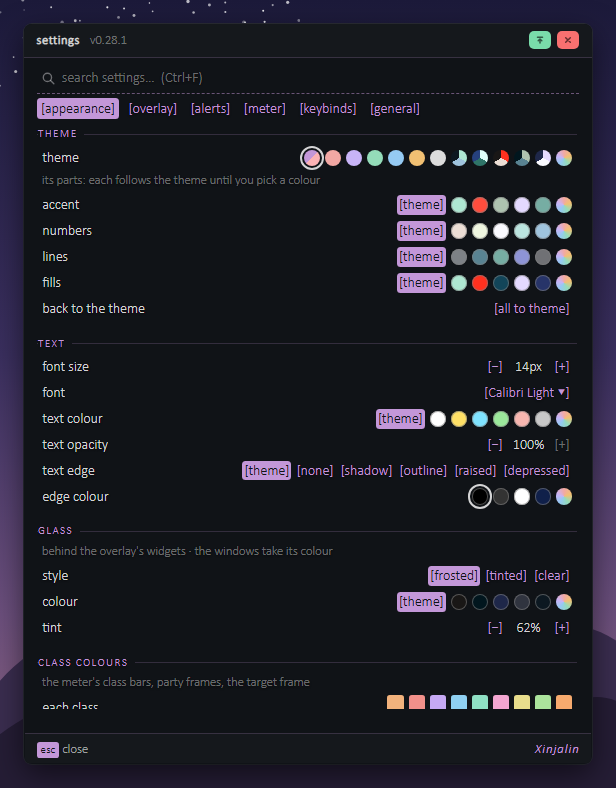
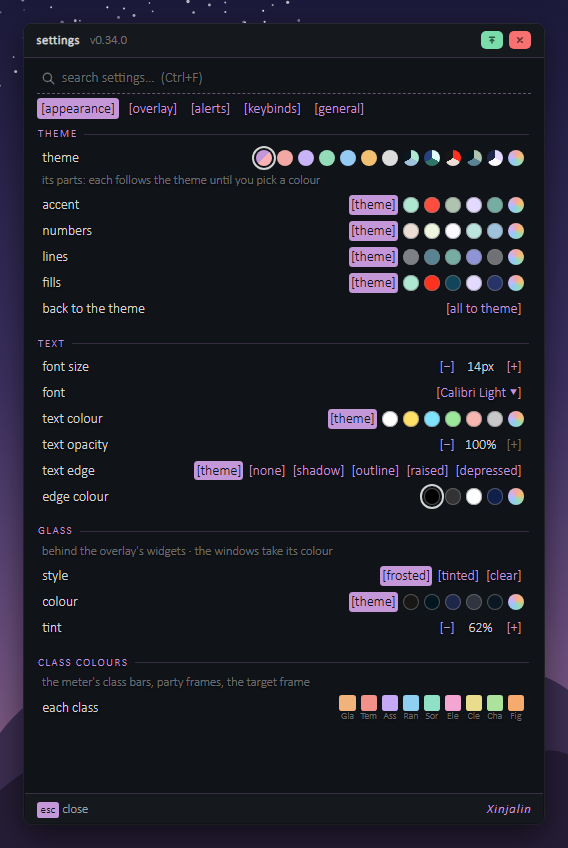
README: screenshots for v0.34, with the vitals arcs, cast bar and timer pins
- overlay.png: the widgets on frosted glass, with the cast bar (thin,
  holy light) under the target frame, party frames with their buffs and
  debuffs, and timer pins.
- vitals.png (new): thin vitals arcs with the nature and void effects,
  each with a thin holy cast bar under it, and the vitals arcs' effect
  settings beside them on the overlay.
- settings.png, launcher.png: retaken at v0.34.0.
- Features: the vitals arcs and cast bar, timer pins, and hidden cubes
  only with a key.

diff --git a/README.md b/README.md
@@ -5,19 +5,22 @@ A DPS meter and overlay for **Aion 2** on Windows.
 Glass Cannon reads the game's network traffic passively through [Npcap](https://npcap.com).
 It never reads or writes the game's memory, needs no admin rights, and never goes online.
 
-![The overlay in a boss fight: world timers, the target frame, two action bars (buffs, and cooldowns with a gap), party cooldowns, the meter and party frames](docs/screenshots/overlay.png)
+![The overlay in a boss fight: world timers, the target frame, the cast bar charging Hellfire in thin holy light, two action bars (buffs, and cooldowns with a gap), party cooldowns, the meter, party frames with their buffs and debuffs, and timer pins](docs/screenshots/overlay.png)
 
 ## Features
 
 - **Meter**: damage, healing and damage taken for you, your party or everyone nearby, with
   each player's skills and combat power.
 - **Overlay**: the meter, target frame, boss warnings and timers, player bars, party
-  frames, action bars of your cooldowns, buffs and debuffs (each set up beside it), and
-  world timers as widgets over the
-  game. Arrange them freely; they
-  step aside for the world map and full-screen menus.
+  frames, action bars of your cooldowns, buffs and debuffs, world timers and timer pins as
+  widgets over the game, each set up beside it. Arrange them freely; they step aside for
+  the world map and full-screen menus.
+- **Vitals arcs and cast bar**: your HP, MP, stamina and flight power as arcs around your
+  character, and a cast bar for the charged skills you hold, with animated effects
+  (flames, frost, lightning, holy light and more) that you can tune.
 - **Boss warnings**: dangerous casts, dungeon and raid mechanics with what to do, and when
-  the boss turns to you.
+  the boss turns to you; hidden cubes as they come into view (only while you have a key,
+  if you like).
 - **Analysis**: every fight in detail: skills, rotation, buffs, healing, deaths and the
   boss's casts.
 - **History**: fights grouped into dungeon and raid runs, with stage times, personal
@@ -54,8 +57,10 @@ It never reads or writes the game's memory, needs no admin rights, and never goe
 
 ![Action bars: a buffs bar and a cooldowns bar, and bar 1's settings beside it on the overlay (what it tracks, its skills laid out with a gap, your class's active and stigma skills)](docs/screenshots/actionbars.png)
 
-<sub>Fights from a real raid night over a painted backdrop. Other players' names are made
-up.</sub>
+![Vitals arcs in the thin look, one with vines and leaves (nature) and one with motes pulled into it (void), HP and stamina on the left, MP and flight power on the right, each with the cast bar under it charging Hellfire in holy light, and the vitals arcs' effect settings beside them on the overlay](docs/screenshots/vitals.png)
+
+<sub>Fights from a real raid night over a painted backdrop, the widgets on frosted glass.
+Other players' names are made up.</sub>
 
 ## Install
 
